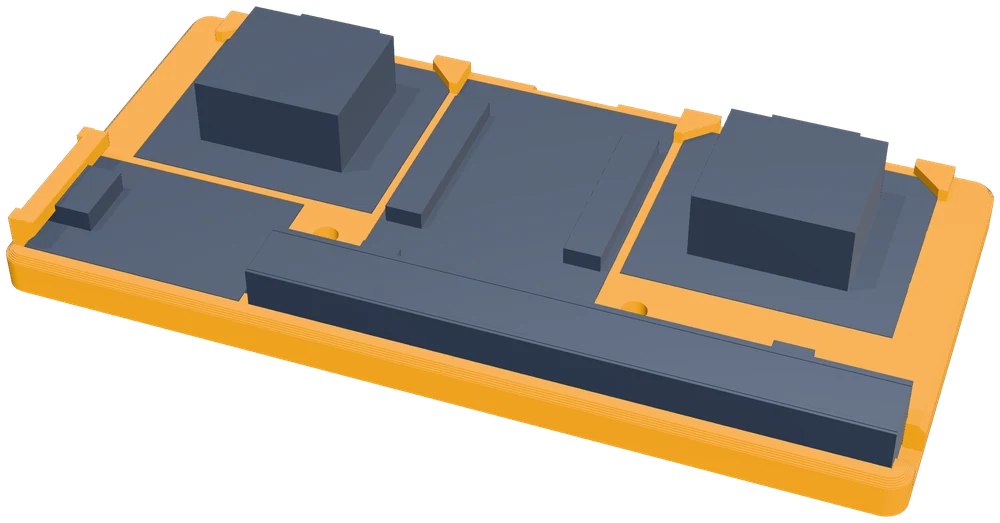
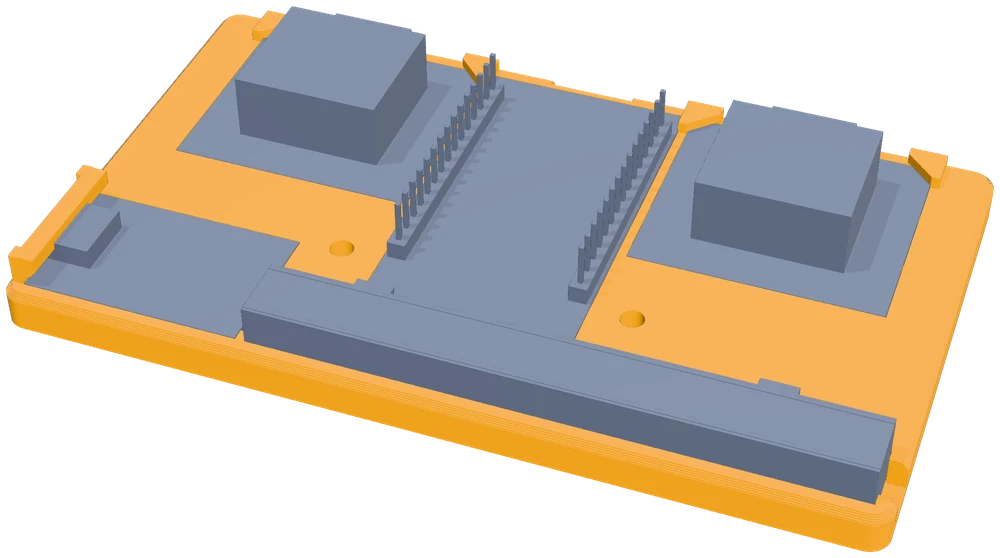
feat: electronics carrier with the ELEGOO ESP-32 board (0.7.3)
- img/elektronik.* and img/roboter-vorne.* regenerated from cad/png of the
  robot repo (after #172)
- Alt text and caption: board upside down with pin headers on top, two motor
  drivers, power module and power rail
- tools/cad_renders.py no longer writes img/roboter.*; the hero comes from
  tools/drehscheibe.py (turntable frame 0)

diff --git a/de/index.html b/de/index.html
@@ -107,10 +107,10 @@
     <figure>
       <picture>
         <source srcset="../img/elektronik.webp" type="image/webp">
-        <img src="../img/elektronik.png" width="1000" height="523" loading="lazy"
-             alt="3D-Modell des Elektronikträgers: Board in der Mitte, links und rechts je eine Motortreiber-Platine, davor eine Stromschiene.">
+        <img src="../img/elektronik.png" width="1000" height="558" loading="lazy"
+             alt="3D-Modell des Elektronikträgers: In der Mitte liegt das ESP32-Board kopfüber, die Stiftleisten zeigen nach oben. Links und rechts davon je eine Motortreiber-Platine, vorne ein Power-Modul und eine Stromschiene, alles auf einer orangefarbenen gedruckten Platte.">
       </picture>
-      <figcaption>Der Elektronikträger: Board, zwei Motortreiber und eine Stromschiene auf einer gedruckten Platte (3D-Modell).</figcaption>
+      <figcaption>Der Elektronikträger: ESP32-Board (kopfüber, Stiftleisten oben), zwei Motortreiber, Power-Modul und Stromschiene auf einer gedruckten Platte (3D-Modell).</figcaption>
     </figure>
   </div>
 </section>
@@ -193,7 +193,7 @@
 
 <footer>
   <div class="wrap">
-    <p>PlotBot-Kit – Webseite Version <span class="version">0.7.2</span>. Die Bilder sind 3D-Modelle, Zeichnungen aus den Beispielprogrammen des PlotBot und ein Bildschirmfoto seiner Handyseite.
+    <p>PlotBot-Kit – Webseite Version <span class="version">0.7.3</span>. Die Bilder sind 3D-Modelle, Zeichnungen aus den Beispielprogrammen des PlotBot und ein Bildschirmfoto seiner Handyseite.
       · <a href="../en/" hreflang="en" lang="en" data-lang="en">English version</a></p>
   </div>
 </footer>

diff --git a/en/index.html b/en/index.html
@@ -107,10 +107,10 @@
     <figure>
       <picture>
         <source srcset="../img/elektronik.webp" type="image/webp">
-        <img src="../img/elektronik.png" width="1000" height="523" loading="lazy"
-             alt="3D model of the electronics carrier: the board in the middle, a motor driver board on each side, a power rail in front.">
+        <img src="../img/elektronik.png" width="1000" height="558" loading="lazy"
+             alt="3D model of the electronics carrier: the ESP32 board sits upside down in the middle with its pin headers pointing up, a motor driver board on each side, and a power module and a power rail at the front, all on an orange printed plate.">
       </picture>
-      <figcaption>The electronics carrier: board, two motor drivers and a power rail on a printed plate (3D model).</figcaption>
+      <figcaption>The electronics carrier: the ESP32 board (upside down, pin headers on top), two motor drivers, a power module and a power rail on a printed plate (3D model).</figcaption>
     </figure>
   </div>
 </section>
@@ -193,7 +193,7 @@
 
 <footer>
   <div class="wrap">
-    <p>PlotBot-Kit – website version <span class="version">0.7.2</span>. The images are 3D models, drawings from the robot's example programs and a screenshot of its phone page.
+    <p>PlotBot-Kit – website version <span class="version">0.7.3</span>. The images are 3D models, drawings from the robot's example programs and a screenshot of its phone page.
       · <a href="../de/" hreflang="de" lang="de" data-lang="de">Deutsche Version</a></p>
   </div>
 </footer>

diff --git a/de/kinematik/index.html b/de/kinematik/index.html
@@ -170,7 +170,7 @@
 
 <footer>
   <div class="wrap">
-    <p>PlotBot-Kit – Webseite Version <span class="version">0.7.2</span>. Der Simulator rechnet mit vereinfachten Modellen: Er zeigt Geometrie, Schrittraster und Getriebespiel, aber keine Reibung oder Nachgiebigkeit.
+    <p>PlotBot-Kit – Webseite Version <span class="version">0.7.3</span>. Der Simulator rechnet mit vereinfachten Modellen: Er zeigt Geometrie, Schrittraster und Getriebespiel, aber keine Reibung oder Nachgiebigkeit.
       · <a href="../">Zur PlotBot-Seite</a> · <a href="../../en/kinematics/" hreflang="en" lang="en" data-lang="en">English version</a></p>
   </div>
 </footer>

diff --git a/en/kinematics/index.html b/en/kinematics/index.html
@@ -171,7 +171,7 @@
 
 <footer>
   <div class="wrap">
-    <p>PlotBot-Kit – website version <span class="version">0.7.2</span>. The simulator uses simplified models: it covers geometry, step resolution and gear backlash, but not friction or flex.
+    <p>PlotBot-Kit – website version <span class="version">0.7.3</span>. The simulator uses simplified models: it covers geometry, step resolution and gear backlash, but not friction or flex.
       · <a href="../">PlotBot main page</a> · <a href="../../de/kinematik/" hreflang="de" lang="de" data-lang="de">Deutsche Version</a></p>
   </div>
 </footer>

diff --git a/de/ausprobieren/index.html b/de/ausprobieren/index.html
@@ -118,7 +118,7 @@
 
 <footer>
   <div class="wrap">
-    <p>PlotBot-Kit – Webseite Version <span class="version">0.7.2</span>. Der Roboter auf dieser Seite ist eine Simulation.
+    <p>PlotBot-Kit – Webseite Version <span class="version">0.7.3</span>. Der Roboter auf dieser Seite ist eine Simulation.
       · <a href="../../en/try/" hreflang="en" lang="en" data-lang="en">English version</a></p>
     <p class="license">Blockly © Google, Apache License 2.0 (<a href="../../vendor/blockly/LICENSE">Lizenztext</a>).</p>
   </div>

diff --git a/en/try/index.html b/en/try/index.html
@@ -119,7 +119,7 @@
 
 <footer>
   <div class="wrap">
-    <p>PlotBot-Kit – website version <span class="version">0.7.2</span>. The robot on this page is a simulation.
+    <p>PlotBot-Kit – website version <span class="version">0.7.3</span>. The robot on this page is a simulation.
       · <a href="../../de/ausprobieren/" hreflang="de" lang="de" data-lang="de">Deutsche Version</a></p>
     <p class="license">Blockly © Google, Apache License 2.0 (<a href="../../vendor/blockly/LICENSE">license text</a>).</p>
   </div>

diff --git a/index.html b/index.html
@@ -51,6 +51,6 @@
     </figure>
   </div>
 </main>
-<footer><div class="wrap"><p>Version <span class="version">0.7.2</span></p></div></footer>
+<footer><div class="wrap"><p>Version <span class="version">0.7.3</span></p></div></footer>
 </body>
 </html>

diff --git a/tools/cad_renders.py b/tools/cad_renders.py
@@ -1,5 +1,6 @@
-# Regenerates img/roboter*, img/roboter-vorne*, img/elektronik* from the renders in the robot repo (run from the site root).
-# Usage: python3 -I tools/cad_renders.py <dir with baugruppe.png, baugruppe_vorne_links.png, elektroniktraeger_bestueckt.png>
+# Regenerates img/roboter-vorne*, img/elektronik* from the renders in the robot repo (run from the site root).
+# Usage: python3 -I tools/cad_renders.py <dir with baugruppe_vorne_links.png, elektroniktraeger_bestueckt.png>
+# The hero image img/roboter* comes from tools/drehscheibe.py (cut from turntable frame 0), not from here.
 # Renders with an alpha channel (Three.js) are only trimmed and scaled; opaque renders (old OpenSCAD preview) get their background keyed out.
 import sys
 from PIL import Image
@@ -32,6 +33,5 @@ def render(name, out, w):
     print(out, rgba.size)
 
 
-render("baugruppe.png", "roboter", 800)
 render("baugruppe_vorne_links.png", "roboter-vorne", 800)
 render("elektroniktraeger_bestueckt.png", "elektronik", 1000)
